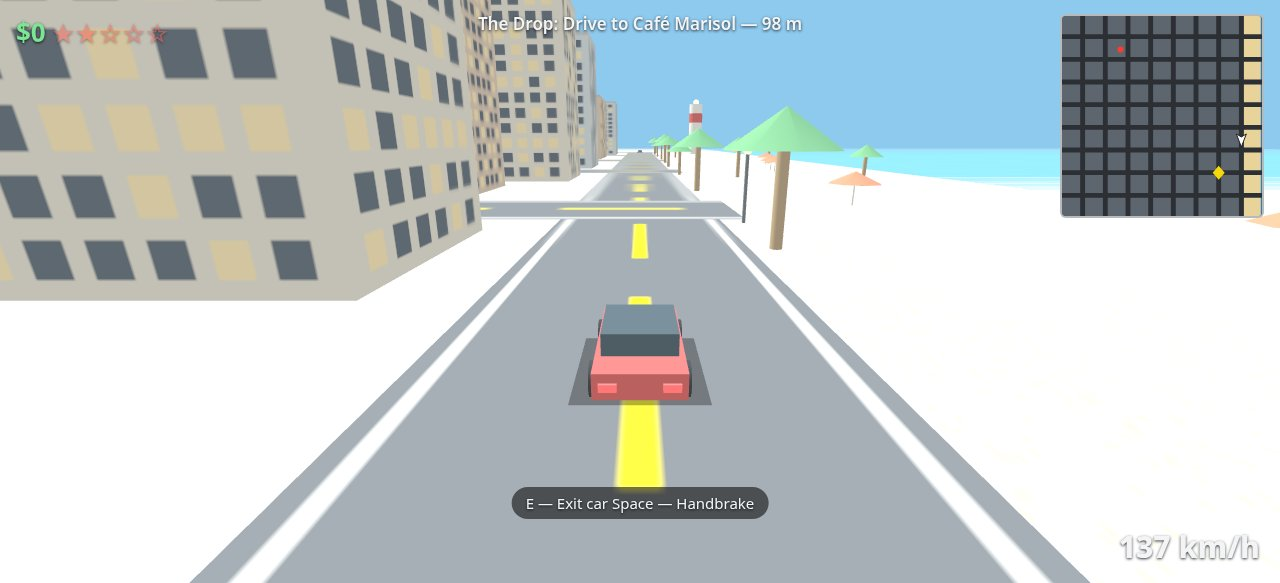
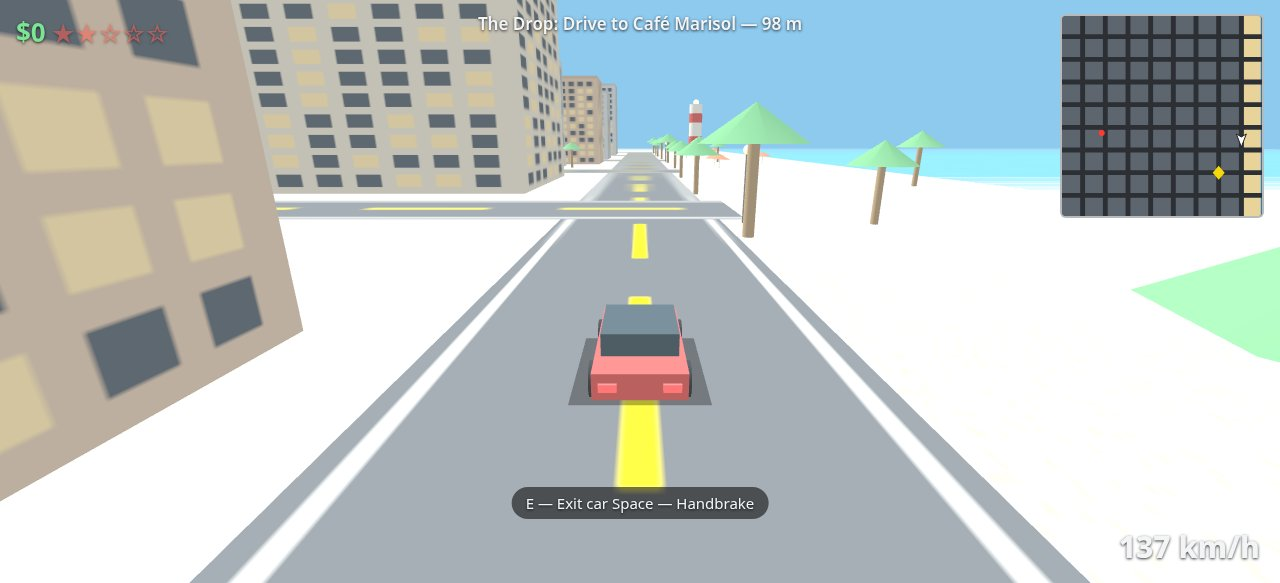
README line + beach seed 7 -> 9, re-shot 4-beach.jpg

Changed region(s): [[0.0, 0.0, 0.75, 0.8645], [0.875, 0.4322, 1.0, 0.6175], [0.9688, 0.3705, 1.0, 0.4014]]

diff --git a/README.md b/README.md
@@ -5,6 +5,7 @@
 [![reward](https://make.fun/badge/gta6-01/Buruhcrypto777/gta6-01/reward.svg)](https://make.fun/bounty/gta6-01?utm_source=github&utm_medium=readme&utm_campaign=gta6-01)
 
 Built for the [make.fun gta6-01 bounty](https://make.fun/bounty/gta6-01). Referral code: 1dmvtzwc.
+Entry for the $1,666 gta6-01 bounty — $500 for first place, judged on the screenshots and the game itself.
 
 Mara Voss, getaway driver, owes the Solmar syndicate one last job. Five missions
 stand between her and a clean slate — in a coastal city that never stops watching.
